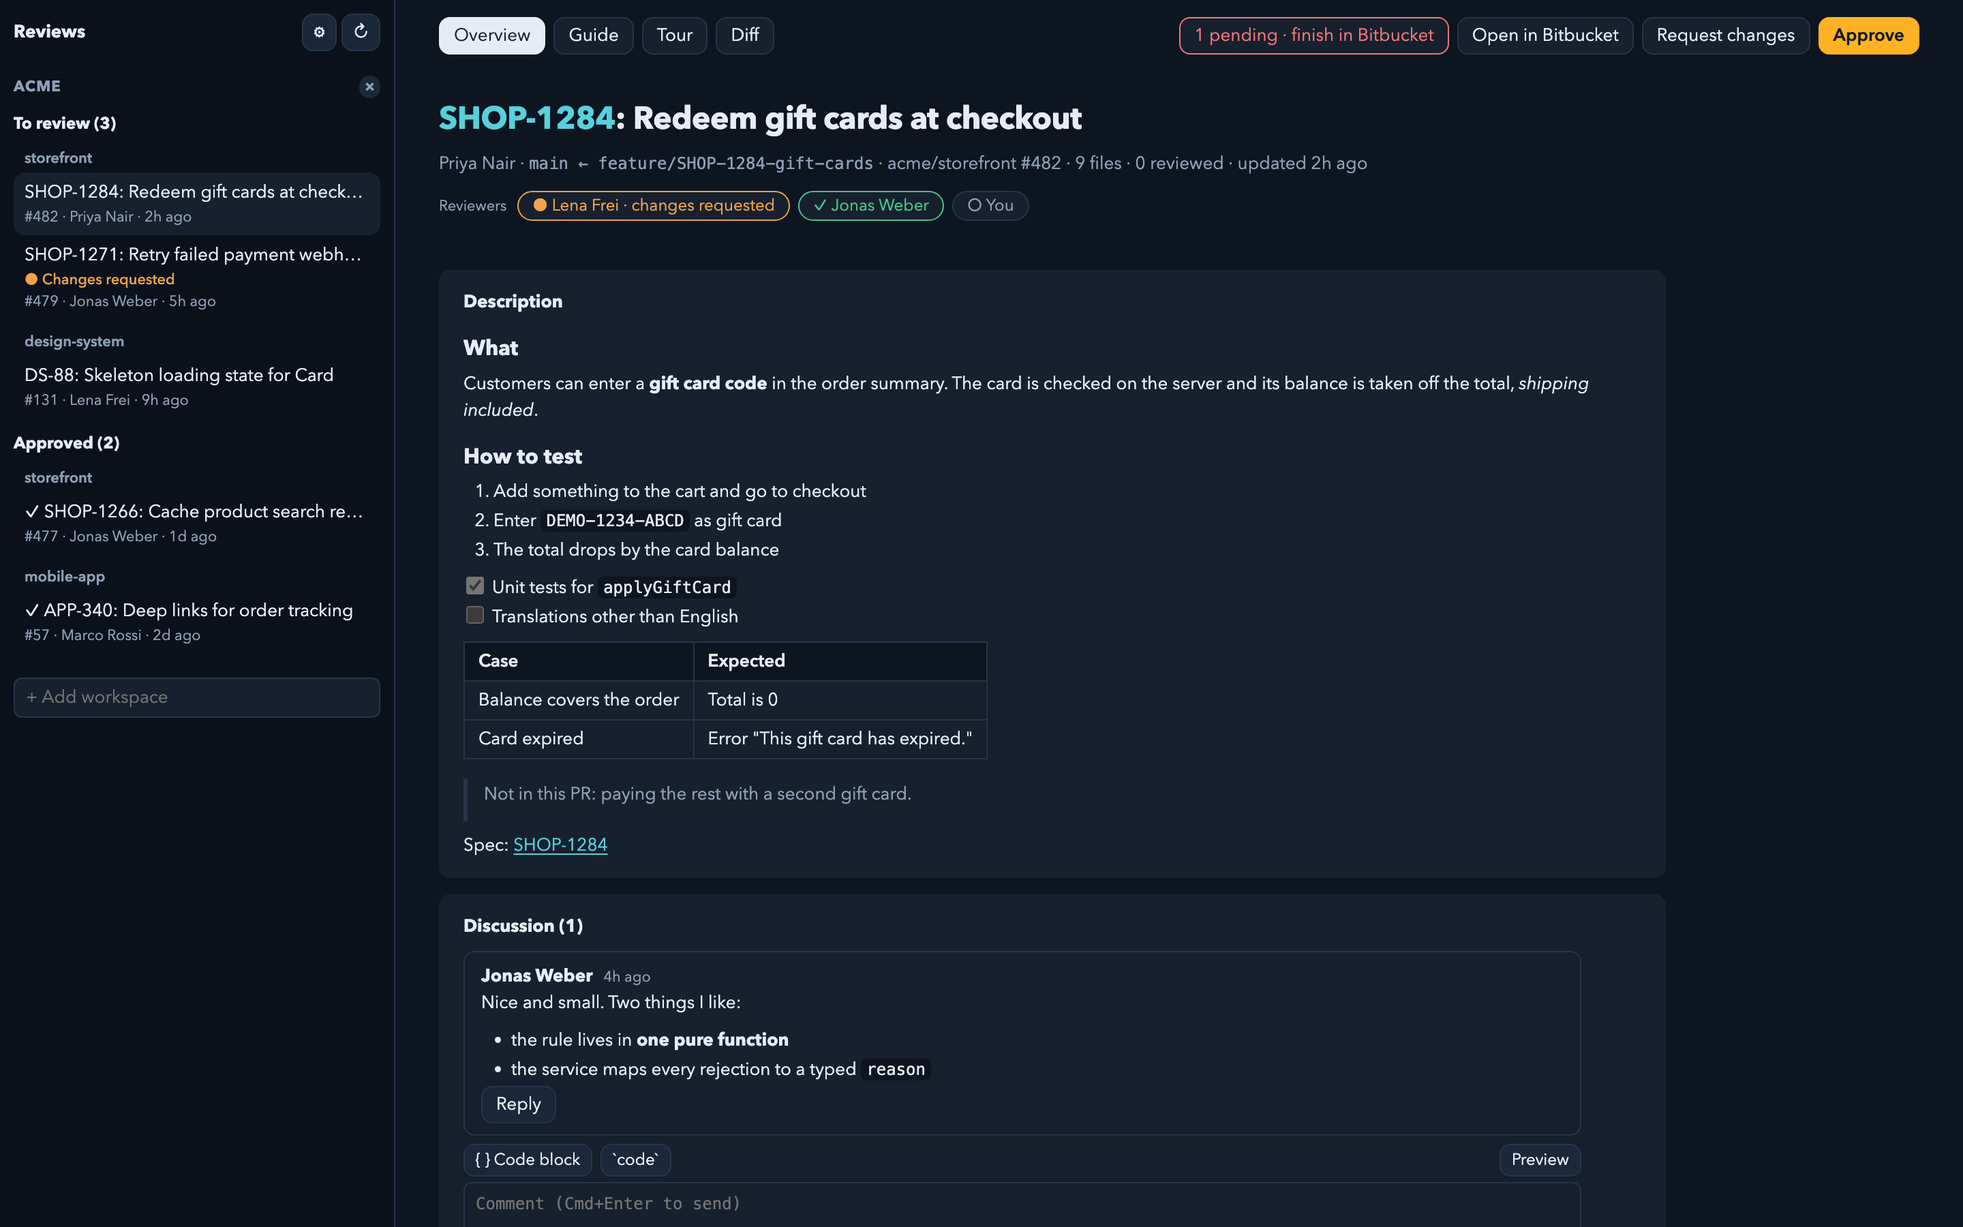
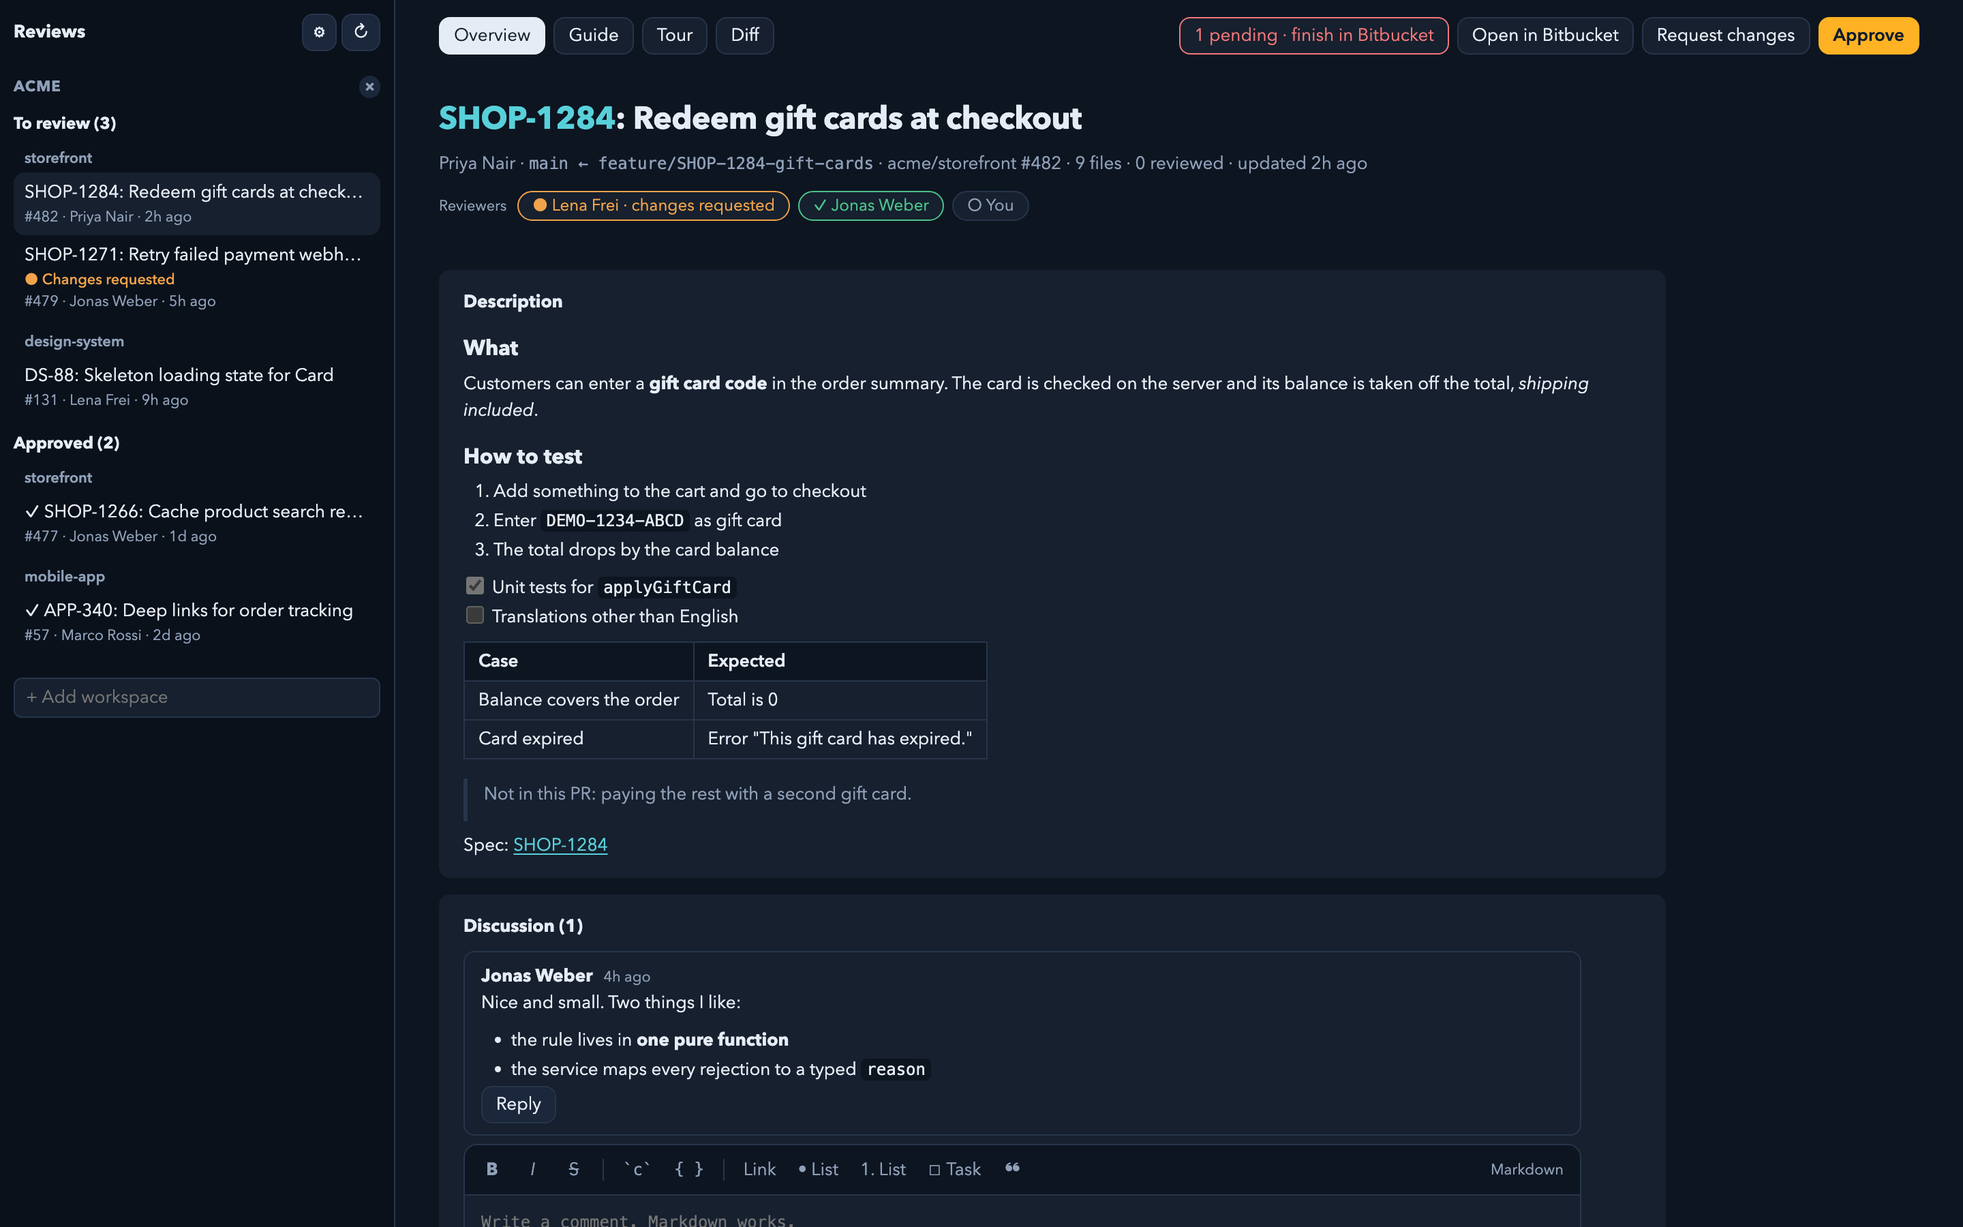
Markdown comment editor: toolbar, shortcuts, list editing, live preview

Changed region(s): [[0.2188, 0.9333, 0.4062, 1.0], [0.4062, 0.9333, 0.5, 0.9644], [0.75, 0.9333, 0.8125, 0.9644]]

diff --git a/ui/app.js b/ui/app.js
@@ -1,4 +1,4 @@
-import { GENERATED, TEST, markdown, tourHunks, tourInput, normalizeTour, parseDiff, normalizeGuide, guideInput } from './lib.js';
+import { GENERATED, TEST, markdown, mdWrap, mdPrefix, mdEnter, mdIndent, mdLink, mdBlock, tourHunks, tourInput, normalizeTour, parseDiff, normalizeGuide, guideInput } from './lib.js';
 
 const { invoke } = window.__TAURI__.core;
 const side = document.getElementById('side');
@@ -308,42 +308,70 @@ function reload(repo, id) {
 
 // A plain-text Markdown editor with the two things reviews need: code insertion and a preview of how it will render.
 // opts: value (prefill when editing), label (submit button), lang (language for new code blocks, e.g. the file's extension).
-function commentForm(send, onCancel, { value = '', label = 'Comment', lang = '' } = {}) {
-  const area = h('textarea', { placeholder: `Comment (${MOD}+Enter to send)`, value });
-  const preview = h('div', { className: 'preview', hidden: true });
+// The comment editor: a markdown text field with a toolbar, shortcuts, list editing and a live preview below it.
+// quote: the code of the line being commented on, offered as "Quote line".
+function commentForm(send, onCancel, { value = '', label = 'Comment', lang = '', quote } = {}) {
+  const area = h('textarea', { placeholder: 'Write a comment. Markdown works.', value, rows: 3 });
+  const live = h('div', { className: 'live', hidden: true });
   const err = h('p', { className: 'error' });
   const btn = h('button', { className: 'primary', textContent: label });
-  // Wraps the selection, or a placeholder, and leaves it selected so typing replaces it.
-  const wrap = (before, after, placeholder) => {
-    const s = area.selectionStart;
-    const text = area.value.slice(s, area.selectionEnd) || placeholder;
-    area.setRangeText(before + text + after, s, area.selectionEnd, 'end');
-    area.setSelectionRange(s + before.length, s + before.length + text.length);
-    area.focus();
+  const refresh = () => {
+    area.style.height = 'auto';
+    area.style.height = `${area.scrollHeight}px`;
+    live.hidden = !area.value.trim();
+    if (!live.hidden) set(live, h('small', { textContent: 'Preview' }), rich(area.value));
   };
-  const block = () => wrap(`${area.selectionStart > 0 && area.value[area.selectionStart - 1] !== '\n' ? '\n' : ''}\`\`\`${lang}\n`, '\n```\n', 'code');
-  const toggle = h('button', {
-    type: 'button',
-    textContent: 'Preview',
-    onclick: () => {
-      preview.hidden = !preview.hidden;
-      area.hidden = !preview.hidden;
-      toggle.textContent = preview.hidden ? 'Preview' : 'Write';
-      if (!preview.hidden) set(preview, area.value.trim() ? rich(area.value) : h('p', { className: 'muted', textContent: 'Nothing to preview.' }));
-      else area.focus();
-    },
-  });
-  const tools = h(
+  // Edits go through insertText so that undo keeps working; setRangeText is the fallback.
+  const apply = (r) => {
+    if (!r) return false;
+    area.focus();
+    area.setSelectionRange(r.from, r.to);
+    if (!document.execCommand('insertText', false, r.text)) area.setRangeText(r.text, r.from, r.to, 'end');
+    area.setSelectionRange(r.start, r.end);
+    refresh();
+    return true;
+  };
+  const run = (fn, ...args) => apply(fn(area.value, area.selectionStart, area.selectionEnd, ...args));
+  const tool = (content, title, keys, action, props = {}) => {
+    const b = h('button', { type: 'button', title: keys ? `${title} (${keys})` : title, onclick: action, ...props });
+    b.append(content);
+    return b;
+  };
+  const actions = {
+    b: () => run(mdWrap, '**'),
+    i: () => run(mdWrap, '_'),
+    e: () => run(mdWrap, '`', '`', 'code'),
+    k: () => run(mdLink),
+    C: () => run(mdBlock, lang),
+  };
+  const bar = h(
     'div',
-    { className: 'tools' },
-    h('button', { type: 'button', textContent: '{ } Code block', title: 'Insert a code block, or wrap the selection in one', onclick: block }),
-    h('button', { type: 'button', textContent: '`code`', title: 'Inline code', onclick: () => wrap('`', '`', 'code') }),
+    { className: 'bar' },
+    tool(h('b', { textContent: 'B' }), 'Bold', `${MOD}+B`, actions.b),
+    tool(h('i', { textContent: 'I' }), 'Italic', `${MOD}+I`, actions.i),
+    tool(h('s', { textContent: 'S' }), 'Strikethrough', '', () => run(mdWrap, '~~')),
+    h('span', { className: 'sep' }),
+    tool('`c`', 'Inline code', `${MOD}+E`, actions.e, { className: 'mono' }),
+    tool('{ }', 'Code block', `${MOD}+Shift+C`, actions.C, { className: 'mono' }),
+    quote != null && tool('Quote line', 'Insert the line you are commenting on as a code block', '', () => run(mdBlock, lang, quote)),
+    h('span', { className: 'sep' }),
+    tool('Link', 'Link', `${MOD}+K`, actions.k),
+    tool('• List', 'Bullet list', '', () => run(mdPrefix, 'ul')),
+    tool('1. List', 'Numbered list', '', () => run(mdPrefix, 'ol')),
+    tool('☐ Task', 'Task list', '', () => run(mdPrefix, 'task')),
+    tool('❝', 'Quote', '', () => run(mdPrefix, 'quote')),
     h('span', { className: 'grow' }),
-    toggle,
+    h('small', { textContent: 'Markdown' }),
   );
   // Two ways to send a new comment: post it now, or keep it pending as part of a review. Editing only saves.
   const later = !value && h('button', { type: 'button', textContent: 'Add to review', title: 'Saved as pending: only you see it until you finish the review in Bitbucket', onclick: () => go(true) });
-  const form = h('form', { className: 'comment' }, tools, area, preview, h('div', {}, btn, later, onCancel && h('button', { type: 'button', textContent: 'Cancel', onclick: onCancel })), err);
+  const form = h(
+    'form',
+    { className: 'comment' },
+    h('div', { className: 'ed' }, bar, area, live),
+    h('div', { className: 'foot' }, btn, later, onCancel && h('button', { type: 'button', textContent: 'Cancel', onclick: onCancel }), h('small', { textContent: `${MOD}+Enter to send` })),
+    err,
+  );
   const go = async (pending) => {
     if (!area.value.trim() || btn.disabled) return;
     btn.disabled = true;
@@ -360,15 +388,30 @@ function commentForm(send, onCancel, { value = '', label = 'Comment', lang = '' 
     e.preventDefault();
     go(false);
   };
+  const PAIRS = { '`': '`', '*': '*', _: '_', '(': ')', '[': ']' };
   area.onkeydown = (e) => {
+    const done = (ok) => ok && e.preventDefault();
+    const selected = area.selectionStart !== area.selectionEnd;
+    // Cmd+B, I, E, K and Cmd+Shift+C. Plain Cmd+C stays copy.
+    const letter = e.key.toLowerCase();
+    const shortcut = modKey(e) && !e.altKey ? (e.shiftKey ? (letter === 'c' ? 'C' : '') : letter) : '';
     if (modKey(e) && e.key === 'Enter') form.requestSubmit();
-    // Inside a code block Tab indents. Elsewhere it keeps moving focus, so the form stays keyboard friendly.
-    if (e.key === 'Tab' && !e.shiftKey && (area.value.slice(0, area.selectionStart).match(/```/g)?.length ?? 0) % 2 === 1) {
-      e.preventDefault();
-      area.setRangeText('  ', area.selectionStart, area.selectionEnd, 'end');
-    }
+    else if (actions[shortcut]) done((actions[shortcut](), true));
+    else if (e.key === 'Enter' && !e.shiftKey && !e.isComposing) done(run(mdEnter));
+    // Tab only acts in lists and code blocks. Elsewhere it keeps moving focus, so the form stays keyboard friendly.
+    else if (e.key === 'Tab' && !modKey(e)) done(run(mdIndent, e.shiftKey));
+    // Typing a bracket or marker with text selected wraps the selection.
+    else if (selected && PAIRS[e.key] && !modKey(e)) done(run(mdWrap, e.key, PAIRS[e.key]));
+    // Esc closes a reply or edit, but never throws away something typed.
+    else if (e.key === 'Escape' && onCancel && area.value === value) onCancel();
   };
-  setTimeout(() => onCancel && area.focus());
+  // Pasting a web address onto selected text makes that text a link.
+  area.onpaste = (e) => {
+    const url = e.clipboardData?.getData('text').trim() ?? '';
+    if (area.selectionStart !== area.selectionEnd && /^https:\/\/\S+$/.test(url)) e.preventDefault(), run(mdLink, url);
+  };
+  area.oninput = refresh;
+  setTimeout(() => (refresh(), onCancel && area.focus()));
   return form;
 }
 
@@ -541,7 +584,7 @@ function fileEl(f, hidden, ctx, only) {
         const anchor = l.t === '-' ? { fromLine: l.o } : { line: l.n };
         const start = () => {
           if (row.nextSibling?.dataset.form) return row.nextSibling.remove();
-          const tr = note(commentForm((text, pending) => post({ text, pending, path: f.path, ...anchor }), () => tr.remove(), { lang }));
+          const tr = note(commentForm((text, pending) => post({ text, pending, path: f.path, ...anchor }), () => tr.remove(), { lang, quote: l.text }));
           tr.dataset.form = '1';
           row.after(tr);
         };

diff --git a/ui/lib.js b/ui/lib.js
@@ -190,6 +190,73 @@ function blocks(lines) {
 
 export const markdown = (raw) => blocks((raw ?? '').replace(/\r\n?/g, '\n').split('\n'));
 
+// Editing helpers for the markdown comment field. Each takes the text and selection and returns one edit:
+// replace [from, to) with text, then select [start, end). They return null when they do not apply.
+const lineSpan = (v, s, e) => [v.lastIndexOf('\n', s - 1) + 1, v.indexOf('\n', e) < 0 ? v.length : v.indexOf('\n', e)];
+const inFence = (v, s) => (v.slice(0, s).match(/^\s*```/gm)?.length ?? 0) % 2 === 1;
+const LIST_LINE = /^\s*([-*+]|\d+[.)])\s/;
+
+// Bold, italic, code: wraps the selection or a placeholder. On text that is already wrapped it removes the wrapping.
+export function mdWrap(v, s, e, before, after = before, placeholder = 'text') {
+  const sel = v.slice(s, e);
+  if (s >= before.length && v.slice(s - before.length, s) === before && v.slice(e, e + after.length) === after) return { from: s - before.length, to: e + after.length, text: sel, start: s - before.length, end: e - before.length };
+  if (sel.length >= before.length + after.length && sel.startsWith(before) && sel.endsWith(after)) {
+    const inner = sel.slice(before.length, sel.length - after.length);
+    return { from: s, to: e, text: inner, start: s, end: s + inner.length };
+  }
+  const text = sel || placeholder;
+  return { from: s, to: e, text: before + text + after, start: s + before.length, end: s + before.length + text.length };
+}
+
+// Lists, tasks and quotes: puts the marker on every selected line, or takes it off if all of them have it.
+export function mdPrefix(v, s, e, kind) {
+  const [from, to] = lineSpan(v, s, e > s && v[e - 1] === '\n' ? e - 1 : e);
+  const lines = v.slice(from, to).split('\n');
+  const has = { ul: /^\s*[-*+]\s+(?!\[[ xX]\])/, ol: /^\s*\d+[.)]\s+/, task: /^\s*[-*+]\s+\[[ xX]\]\s+/, quote: /^\s*>/ }[kind];
+  const mark = (i) => ({ ul: '- ', ol: `${i + 1}. `, task: '- [ ] ', quote: '> ' })[kind];
+  const strip = (l) => l.replace(/^(\s*)(?:[-*+]\s+\[[ xX]\]\s+|[-*+]\s+|\d+[.)]\s+|>\s?)/, '$1');
+  const on = lines.every((l) => has.test(l));
+  const text = lines.map((l, i) => (on ? strip(l) : strip(l).replace(/^(\s*)/, `$1${mark(i)}`))).join('\n');
+  return { from, to, text, start: s === e ? from + text.length : from, end: from + text.length };
+}
+
+// Enter in a list continues it with the next marker. Enter on an empty item ends the list.
+export function mdEnter(v, s, e) {
+  if (s !== e || inFence(v, s)) return null;
+  const from = v.lastIndexOf('\n', s - 1) + 1;
+  const m = /^(\s*)(?:([-*+])|(\d+)([.)]))\s+(\[[ xX]\]\s+)?(.*)$/.exec(v.slice(from, s));
+  if (!m) return null;
+  if (!m[6].trim()) return { from, to: s, text: '', start: from, end: from };
+  const next = `\n${m[1]}${m[2] ?? `${+m[3] + 1}${m[4]}`} ${m[5] ? '[ ] ' : ''}`;
+  return { from: s, to: s, text: next, start: s + next.length, end: s + next.length };
+}
+
+// Tab and Shift+Tab: nests or un-nests list items; inside a code block Tab types two spaces.
+export function mdIndent(v, s, e, out) {
+  if (inFence(v, s)) return out ? null : { from: s, to: e, text: '  ', start: s + 2, end: s + 2 };
+  const [from, to] = lineSpan(v, s, e);
+  const lines = v.slice(from, to).split('\n');
+  if (!lines.every((l) => LIST_LINE.test(l))) return null;
+  const text = lines.map((l) => (out ? l.replace(/^ {1,2}/, '') : `  ${l}`)).join('\n');
+  const first = text.split('\n')[0].length - lines[0].length;
+  return { from, to, text, start: Math.max(from, s + first), end: Math.max(from, e + text.length - (to - from)) };
+}
+
+// A link around the selection. Without a URL the placeholder URL stays selected, ready to be typed over.
+export function mdLink(v, s, e, url) {
+  const label = v.slice(s, e) || 'text';
+  const text = `[${label}](${url ?? 'https://'})`;
+  return url ? { from: s, to: e, text, start: s + text.length, end: s + text.length } : { from: s, to: e, text, start: s + label.length + 3, end: s + text.length - 1 };
+}
+
+// A fenced code block on its own lines, around the selection or the given code.
+export function mdBlock(v, s, e, lang = '', code) {
+  const body = code ?? (v.slice(s, e) || 'code');
+  const lead = s > 0 && v[s - 1] !== '\n' ? '\n' : '';
+  const open = `${lead}\`\`\`${lang}\n`;
+  return { from: s, to: e, text: `${open}${body}\n\`\`\`\n`, start: s + open.length, end: s + open.length + body.length };
+}
+
 // Tour: every hunk of a regular source file gets an id (H1, H2, ...) that the LLM uses to build its stops.
 const isCore = (f) => !GENERATED.test(f.path) && !TEST.test(f.path);
 export function tourHunks(files) {

diff --git a/ui/style.css b/ui/style.css
@@ -117,8 +117,6 @@ tr.note td { padding: 8px 16px 8px 60px; font-family: var(--sans); font-size: 13
 .thread.resolved { opacity: .55; }
 .comment + .comment { margin-top: 8px; padding-top: 8px; border-top: 1px solid var(--line); }
 form.comment { max-width: 820px; margin: 6px 0; }
-form.comment textarea { width: 100%; min-height: 70px; padding: 6px 8px; border: 1px solid var(--line); border-radius: 6px; background: var(--bg); resize: vertical; }
-form.comment div { display: flex; gap: 6px; margin-top: 4px; }
 
 #grip { width: 7px; margin: 0 -4px 0 -3px; flex: none; cursor: col-resize; z-index: 2; }
 #grip:hover, #grip:active { background: var(--amber); opacity: .5; }
@@ -194,11 +192,6 @@ dialog.settings input:not([type]) { width: 100%; padding: 6px 10px; border: 1px 
 .chead { display: flex; gap: 8px; align-items: baseline; }
 .chead a { font-size: 12px; color: var(--muted); }
 .chead a:hover { color: var(--text); }
-.tools { display: flex; gap: 6px; margin-bottom: 4px; }
-.tools button { font-size: 12px; padding: 2px 8px; }
-form.comment textarea { font-family: var(--mono); font-size: 12px; line-height: 1.5; min-height: 96px; tab-size: 2; }
-form.comment .preview { display: block; min-height: 96px; padding: 6px 10px; margin: 0; border: 1px solid var(--line); border-radius: 6px; }
-form.comment .preview[hidden] { display: none; }
 
 .findbar { position: fixed; top: 60px; right: 28px; z-index: 6; display: flex; gap: 6px; align-items: center; padding: 6px 8px; background: var(--bg); border: 1px solid var(--line); border-radius: 10px; box-shadow: 0 8px 24px rgb(0 0 0 / .16); }
 .findbar[hidden] { display: none; }
@@ -254,3 +247,19 @@ dialog.settings select { padding: 6px 8px; border: 1px solid var(--line); border
 .reviewers small { margin-right: 2px; }
 .reviewers .tag { font-size: 12px; padding: 1px 10px; background: var(--bg); }
 .reviewers .tag.plus { color: var(--green); border-color: currentColor; }
+
+/* Comment editor: toolbar, markdown field and live preview in one frame. */
+.ed { border: 1px solid var(--line); border-radius: 10px; overflow: hidden; background: var(--bg); }
+.ed:focus-within { border-color: var(--accent); box-shadow: 0 0 0 3px color-mix(in srgb, var(--accent) 18%, transparent); }
+.ed .bar { display: flex; flex-wrap: wrap; align-items: center; gap: 2px; padding: 5px 6px; border-bottom: 1px solid var(--line); background: var(--page); }
+.ed .bar button { border: 0; background: none; min-width: 28px; height: 26px; padding: 0 7px; border-radius: 6px; color: var(--muted); }
+.ed .bar button:hover { background: var(--line); color: var(--text); }
+.ed .bar button.mono { font-family: var(--mono); font-size: 12px; }
+.ed .bar .sep { width: 1px; height: 16px; background: var(--line); margin: 0 5px; }
+.ed .bar small { font-size: 11px; margin-right: 6px; }
+.ed textarea { display: block; width: 100%; min-height: 84px; max-height: 60vh; padding: 10px 12px; border: 0; outline: 0; background: none; resize: none; font-family: var(--mono); font-size: 12px; line-height: 1.6; tab-size: 2; }
+.ed .live { border-top: 1px dashed var(--line); padding: 10px 12px 12px; }
+.ed .live[hidden] { display: none; }
+.ed .live > small { display: block; margin-bottom: 6px; font-size: 11px; }
+form.comment .foot { display: flex; gap: 6px; align-items: center; margin-top: 8px; }
+form.comment .foot small { margin-left: auto; }

diff --git a/lib.test.js b/lib.test.js
@@ -1,5 +1,5 @@
 import assert from 'node:assert/strict';
-import { GENERATED, TEST, markdown, inline, tourHunks, tourInput, normalizeTour, parseDiff, normalizeGuide, guideInput } from './ui/lib.js';
+import { GENERATED, TEST, markdown, inline, mdWrap, mdPrefix, mdEnter, mdIndent, mdLink, mdBlock, tourHunks, tourInput, normalizeTour, parseDiff, normalizeGuide, guideInput } from './ui/lib.js';
 
 const diff = `✓ Workspace loaded.
 diff --git a/src/a.ts b/src/a.ts
@@ -93,6 +93,36 @@ assert.deepEqual(inline('see [docs](https://a.io/x) and https://b.io/y. not [bad
   { t: 's', kids: [T('no')] },
   T(' *raw*'),
 ]);
+
+// Editor helpers: apply the edit, mark the selection with ⟦ ⟧.
+const edit = (text, fn, ...args) => {
+  const s = text.indexOf('⟦');
+  const e = text.indexOf('⟧') - 1;
+  const v = text.replace('⟦', '').replace('⟧', '');
+  const r = fn(v, s, e, ...args);
+  if (!r) return null;
+  const out = v.slice(0, r.from) + r.text + v.slice(r.to);
+  return `${out.slice(0, r.start)}⟦${out.slice(r.start, r.end)}⟧${out.slice(r.end)}`;
+};
+assert.equal(edit('a ⟦b⟧ c', mdWrap, '**'), 'a **⟦b⟧** c');
+assert.equal(edit('a **⟦b⟧** c', mdWrap, '**'), 'a ⟦b⟧ c');
+assert.equal(edit('a ⟦**b**⟧ c', mdWrap, '**'), 'a ⟦b⟧ c');
+assert.equal(edit('a ⟦⟧ c', mdWrap, '`', '`', 'code'), 'a `⟦code⟧` c');
+assert.equal(edit('x\n⟦one\ntwo⟧\ny', mdPrefix, 'ol'), 'x\n⟦1. one\n2. two⟧\ny');
+assert.equal(edit('⟦- one\n- two⟧', mdPrefix, 'ul'), '⟦one\ntwo⟧');
+assert.equal(edit('- one⟦⟧', mdPrefix, 'task'), '- [ ] one⟦⟧');
+assert.equal(edit('- one⟦⟧', mdEnter), '- one\n- ⟦⟧');
+assert.equal(edit('  3) [x] done⟦⟧', mdEnter), '  3) [x] done\n  4) [ ] ⟦⟧');
+assert.equal(edit('- one\n- ⟦⟧', mdEnter), '- one\n⟦⟧');
+assert.equal(edit('plain⟦⟧', mdEnter), null);
+assert.equal(edit('```\n- one⟦⟧', mdEnter), null);
+assert.equal(edit('- a\n- b⟦⟧', mdIndent, false), '- a\n  - b⟦⟧');
+assert.equal(edit('- a\n  - b⟦⟧', mdIndent, true), '- a\n- b⟦⟧');
+assert.equal(edit('plain⟦⟧', mdIndent, false), null);
+assert.equal(edit('```\nx⟦⟧', mdIndent, false), '```\nx  ⟦⟧');
+assert.equal(edit('see ⟦docs⟧ here', mdLink), 'see [docs](⟦https://⟧) here');
+assert.equal(edit('see ⟦docs⟧ here', mdLink, 'https://a.io'), 'see [docs](https://a.io)⟦⟧ here');
+assert.equal(edit('text⟦⟧', mdBlock, 'ts', 'const a = 1;'), 'text\n```ts\n⟦const a = 1;⟧\n```\n');
 
 // Tour: a.ts has 2 hunks, b.ts 1, plus a test, a lockfile and a binary.
 const tf = parseDiff(`diff --git a/a.ts b/a.ts

diff --git a/TODO.md b/TODO.md
@@ -1,3 +1,4 @@
 # TODO
 
-- WYSIWYG editor for comments
+- Mentions (@name) in comments
+- Image upload in comments
